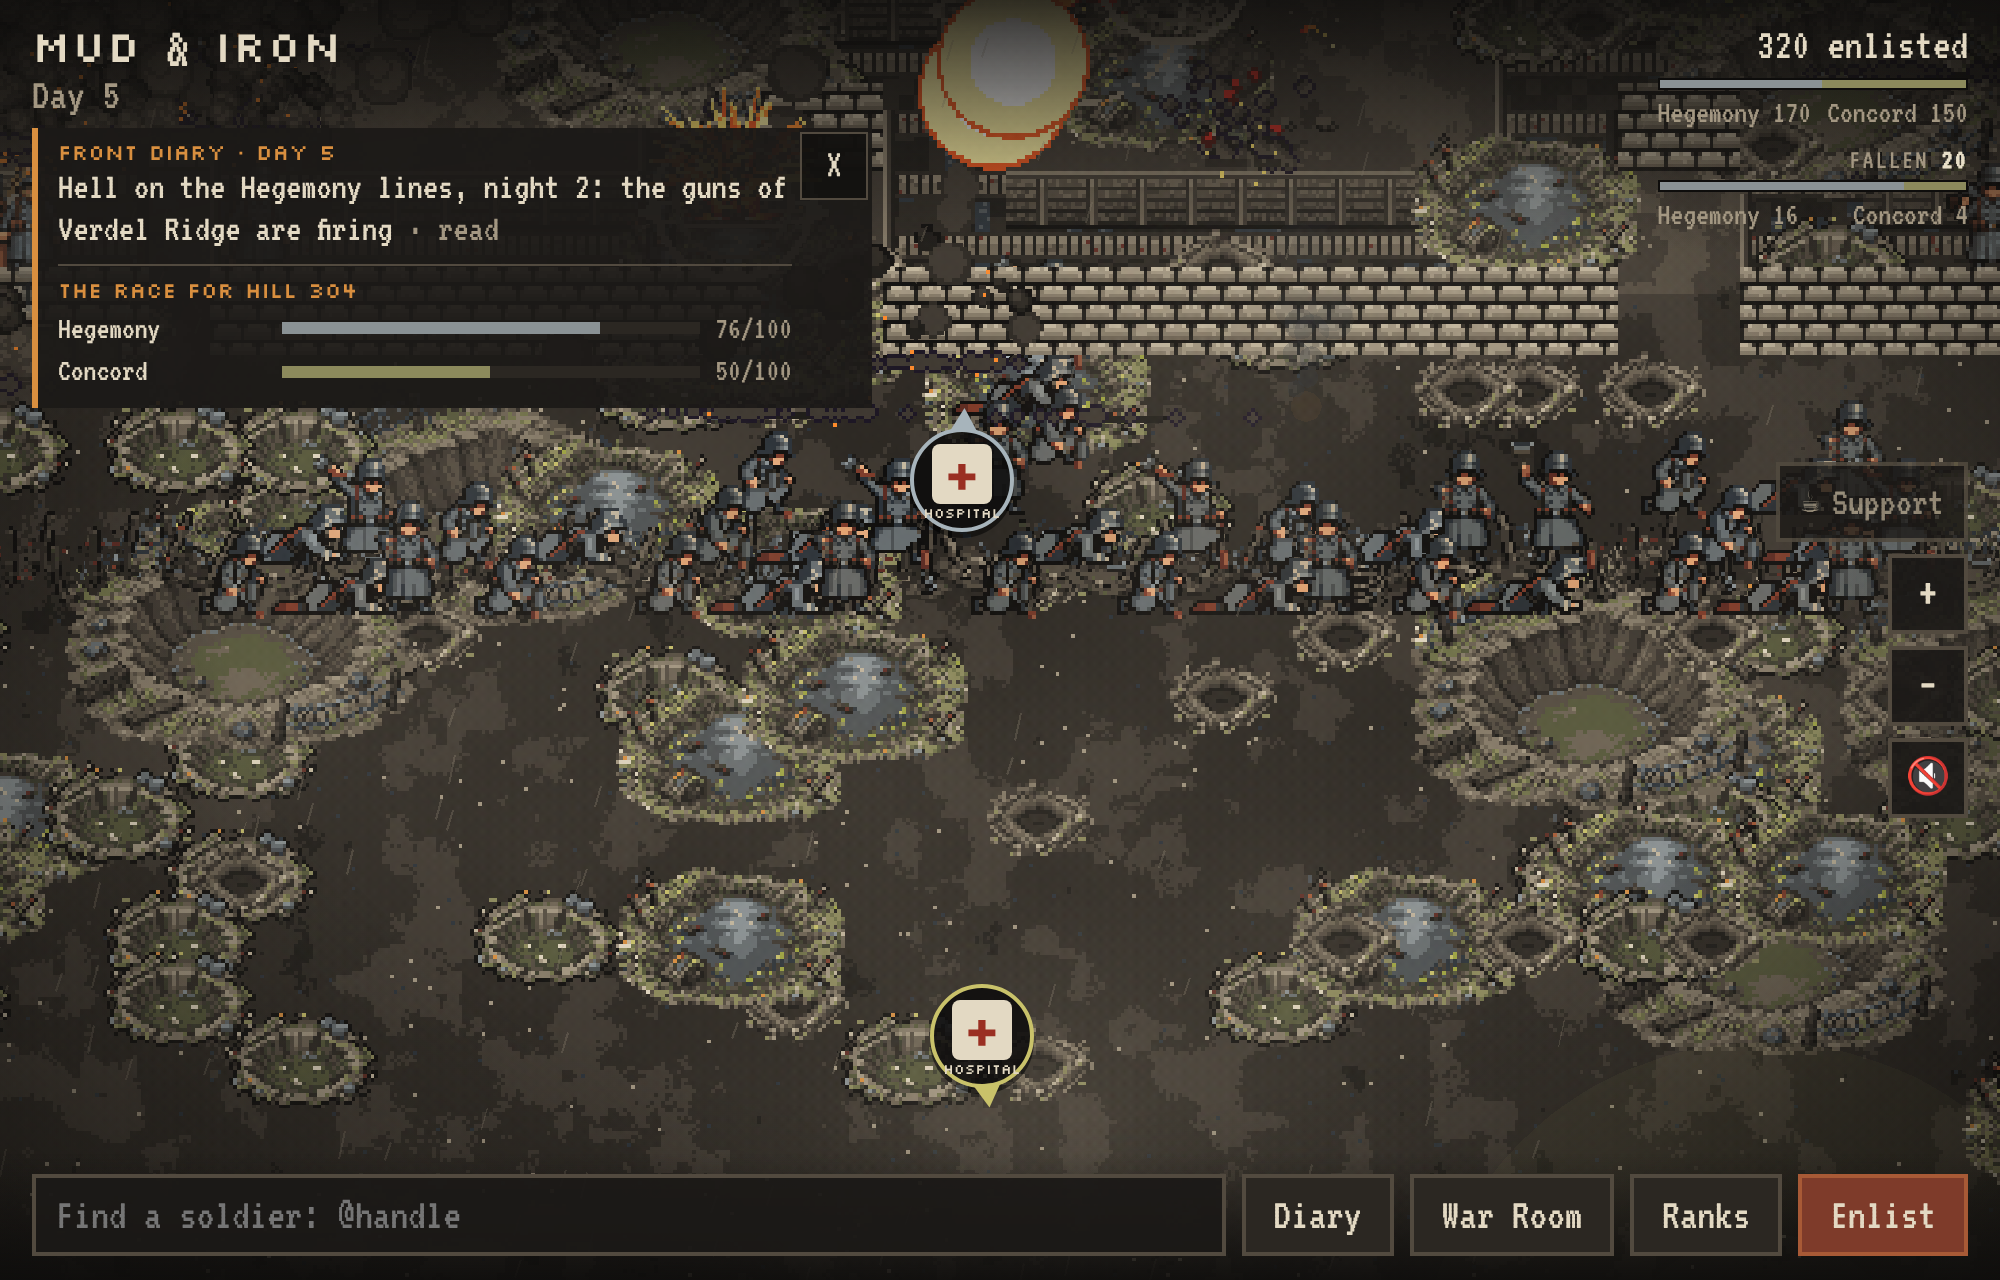
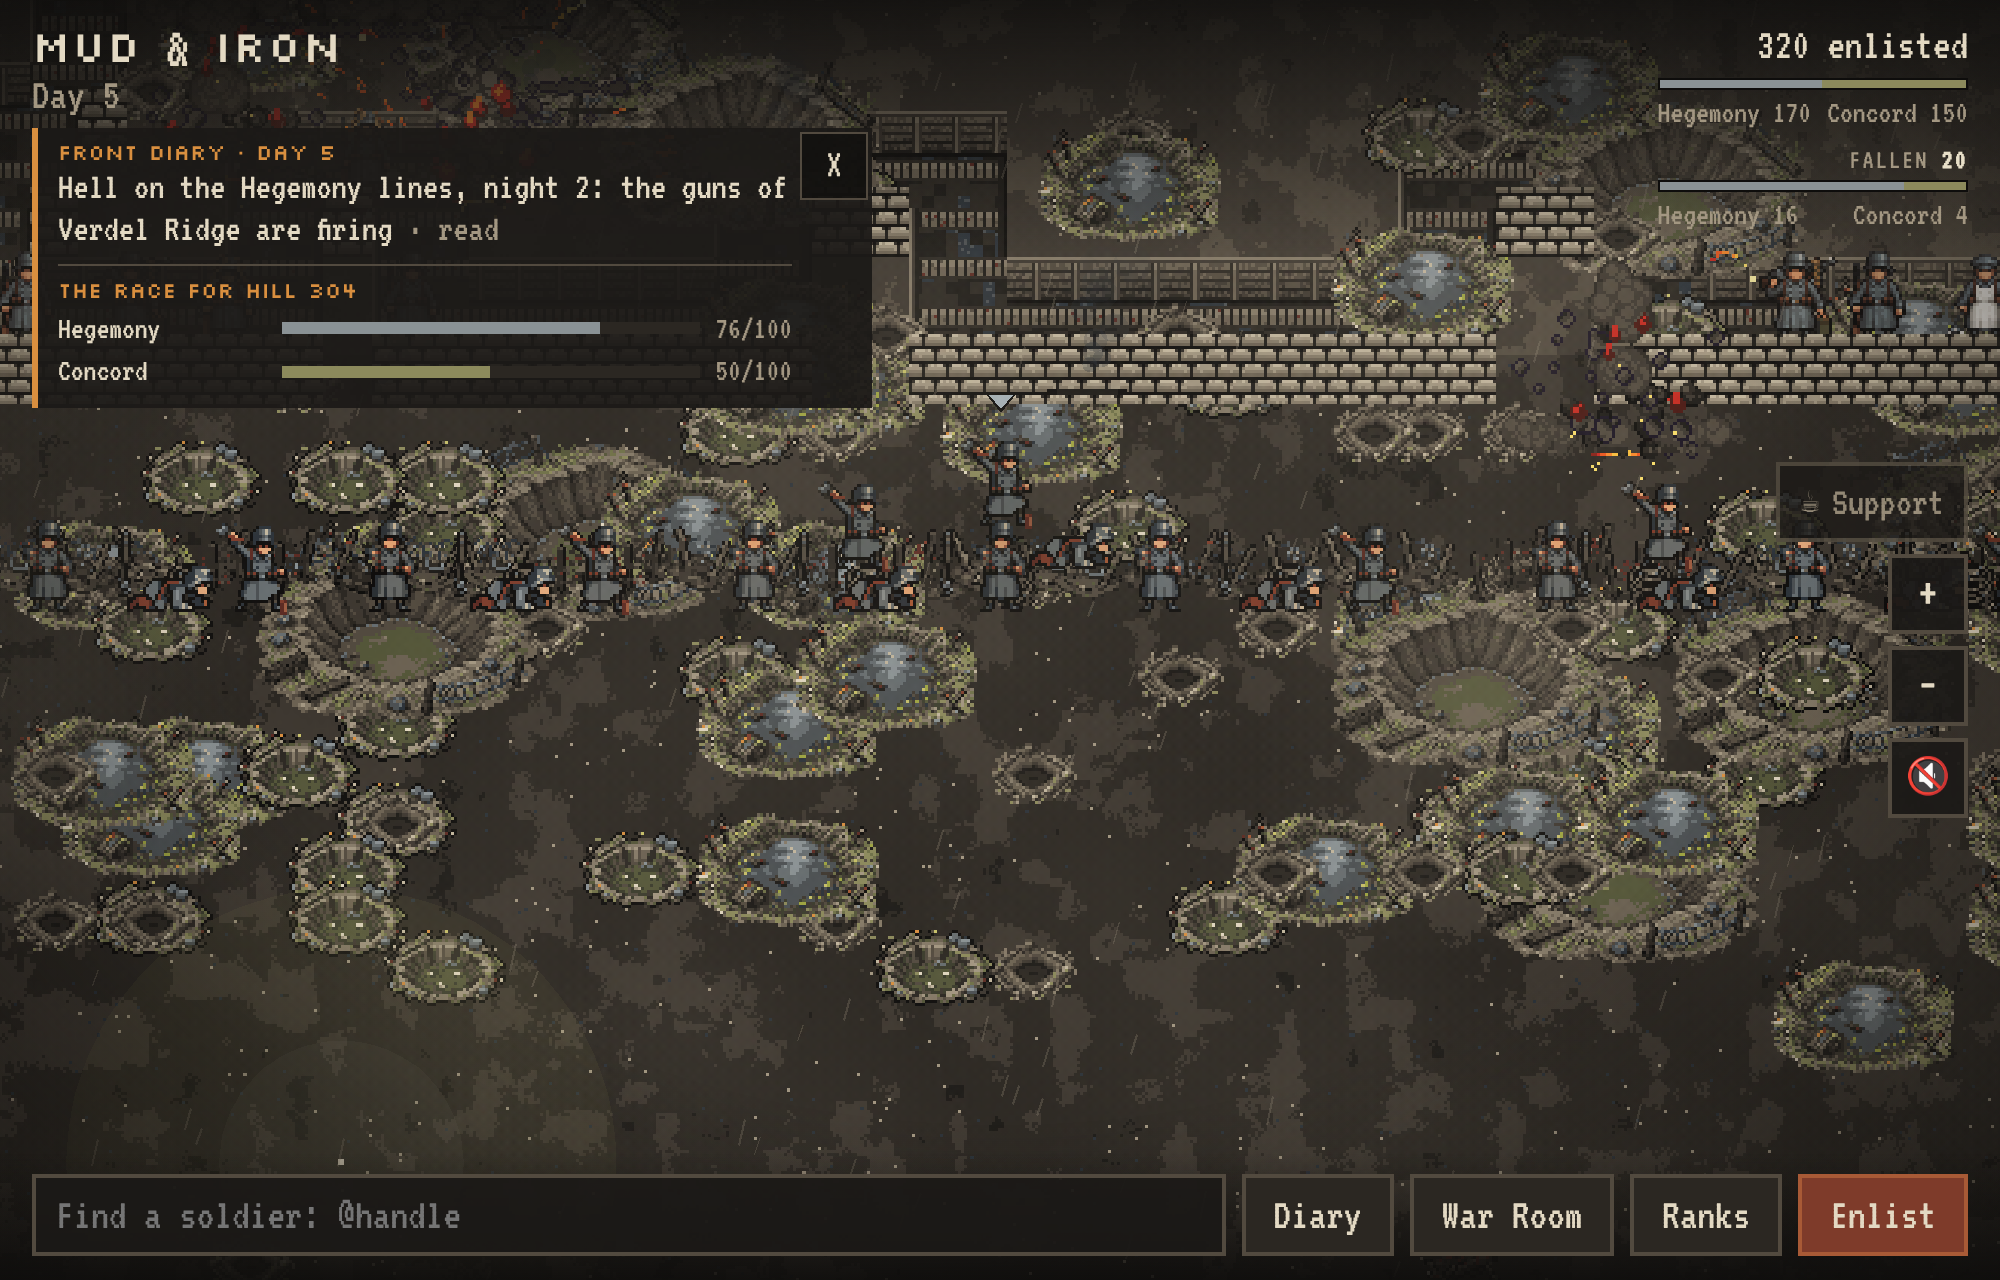
Wiring party: nejvýš 3 dobrovolníci na úsek v jedné řadě (rozestup 34 px), ostatní do nejbližších úseků s místem, party se roztáhne podél drátu
Claude-Session: https://claude.ai/code/session_01VWWMSwJGFZow7tBNcmKaEZ

diff --git a/web/src/wire.js b/web/src/wire.js
@@ -49,22 +49,22 @@ export function placeVolunteers({ soldiers, roster, map, theme, openX0, openX1 }
       const mid = (openX0 + openX1) / 2;
       handles = soldiers.filter((s) => s.faction === f && s.slot?.line === 'front' && !s.vacant && s.handle).sort((p, q) => Math.abs(p.x - mid) - Math.abs(q.x - mid)).slice(0, devParty[f]).map((s) => s.handle);
     }
-    // nejdřív rozdělit dobrovolníky do úseků (každý ke drátu svého stanoviště), pak je v úseku rozestavit
-    const bySeg = new Map();
-    for (const h of handles) {
-      const s = soldiers.find((x) => x.handle === h && x.slot);
-      if (!s) continue;
-      const g = list.reduce((best, q) => (Math.abs((q.x0 + q.x1) / 2 - s.x) < Math.abs((best.x0 + best.x1) / 2 - s.x) ? q : best), list[0]);
-      if (!g) continue;
-      if (!bySeg.has(g)) bySeg.set(g, []);
-      bySeg.get(g).push(s);
+    // každý jde k drátu svého úseku; v úseku jsou nejvýš CAP lidé v jedné řadě (rozestup GAP), další jdou do nejbližšího úseku,
+    // kde je ještě místo: wiring party se roztáhne podél drátu (vypadá to jako skutečná práce, ne jako dav). Když je plno všude, CAP roste.
+    const open = list.filter((g) => Math.min(g.b, openX1) - Math.max(g.a, openX0) > 20);
+    const mid = (g) => (g.x0 + g.x1) / 2;
+    const vols = handles.map((h) => soldiers.find((x) => x.handle === h && x.slot)).filter(Boolean);
+    const CAP0 = 3, GAP = 34, ROW = 14;
+    const cap = Math.max(CAP0, Math.ceil(vols.length / Math.max(1, open.length)));
+    const bySeg = new Map(open.map((g) => [g, []]));
+    for (const s of vols) {
+      const byDist = [...open].sort((p, q) => Math.abs(mid(p) - s.x) - Math.abs(mid(q) - s.x));
+      const g = byDist.find((q) => bySeg.get(q).length < cap) || byDist[0];
+      if (g) bySeg.get(g).push(s);
     }
-    // v úseku: řady podél drátu v rozestupu GAP px, jen v šířce úseku (nepřelézají do sousedních); další řady o ROW px blíž k vlastnímu zákopu,
-    // posunuté o půl rozestupu, ať se postavy nepřekrývají. Plazící se (každý třetí) se hýbe jen o pár px.
-    const GAP = 24, ROW = 13;
     for (const [g, group] of bySeg) {
       const a = Math.max(g.a, openX0 + 12), b = Math.min(g.b, openX1 - 12);
-      const perRow = Math.max(1, Math.floor((b - a) / GAP));
+      const perRow = Math.max(1, Math.min(CAP0, Math.floor((b - a) / GAP)));
       group.forEach((s, i) => {
         const row = Math.floor(i / perRow), col = i % perRow;
         const inRow = Math.min(perRow, group.length - row * perRow);
